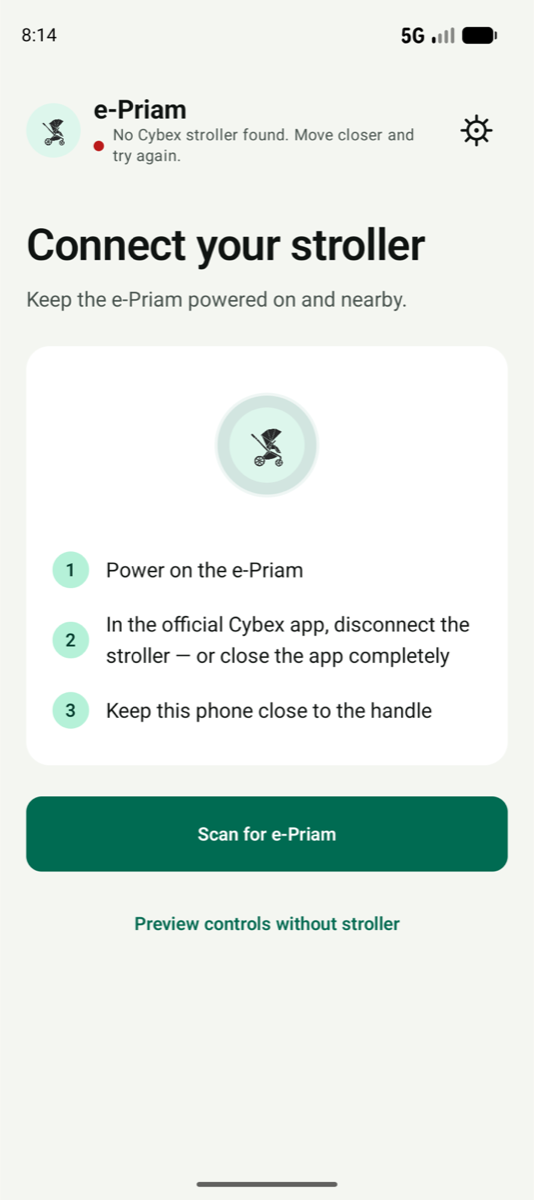
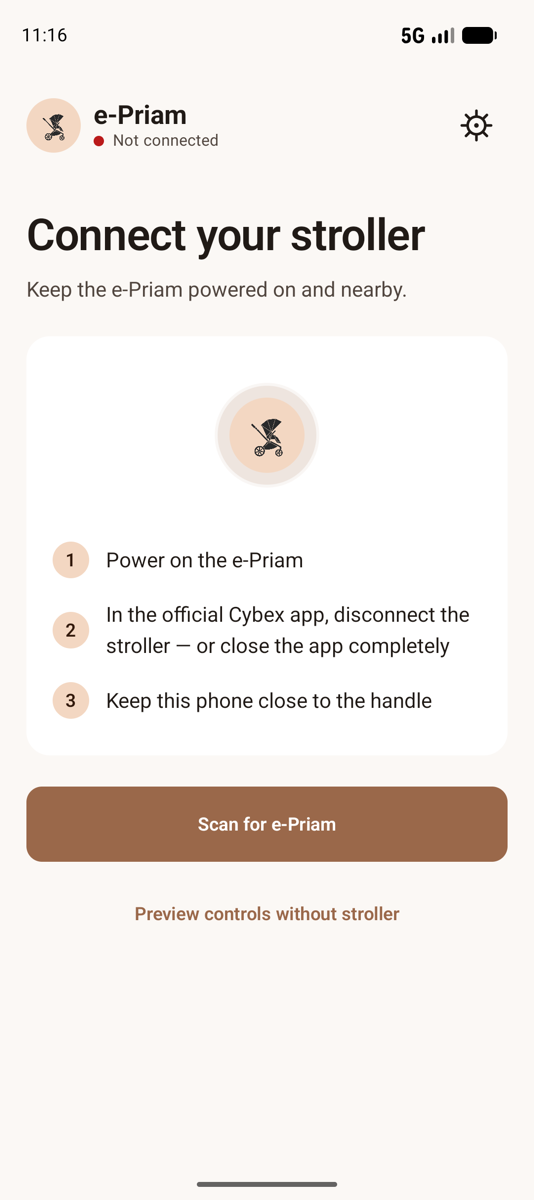
Refresh README screenshots

diff --git a/README.md b/README.md
@@ -8,12 +8,17 @@ An unofficial, open-source Android controller for the CYBEX e-Priam stroller.
   <img src="docs/screenshots/drive-assistance.png" width="30%" alt="Drive assistance modes" />
 </p>
 
+<p align="center">
+  <img src="docs/screenshots/widget.png" width="60%" alt="Home screen rocking widget" />
+</p>
+
 ## Features
 
 - Direct Bluetooth LE discovery and connection
-- Rocking intensity and timers up to three hours
+- Rocking intensity and timers up to two hours
+- Home screen controls with 10, 30, and 60 minute presets
 - Eco, Tour, and experimental Boost drive assistance
-- Battery status, light/dark themes, and offline demo mode
+- Battery status, selectable color palettes, light/dark themes, and offline demo mode
 
 ## Download
 
